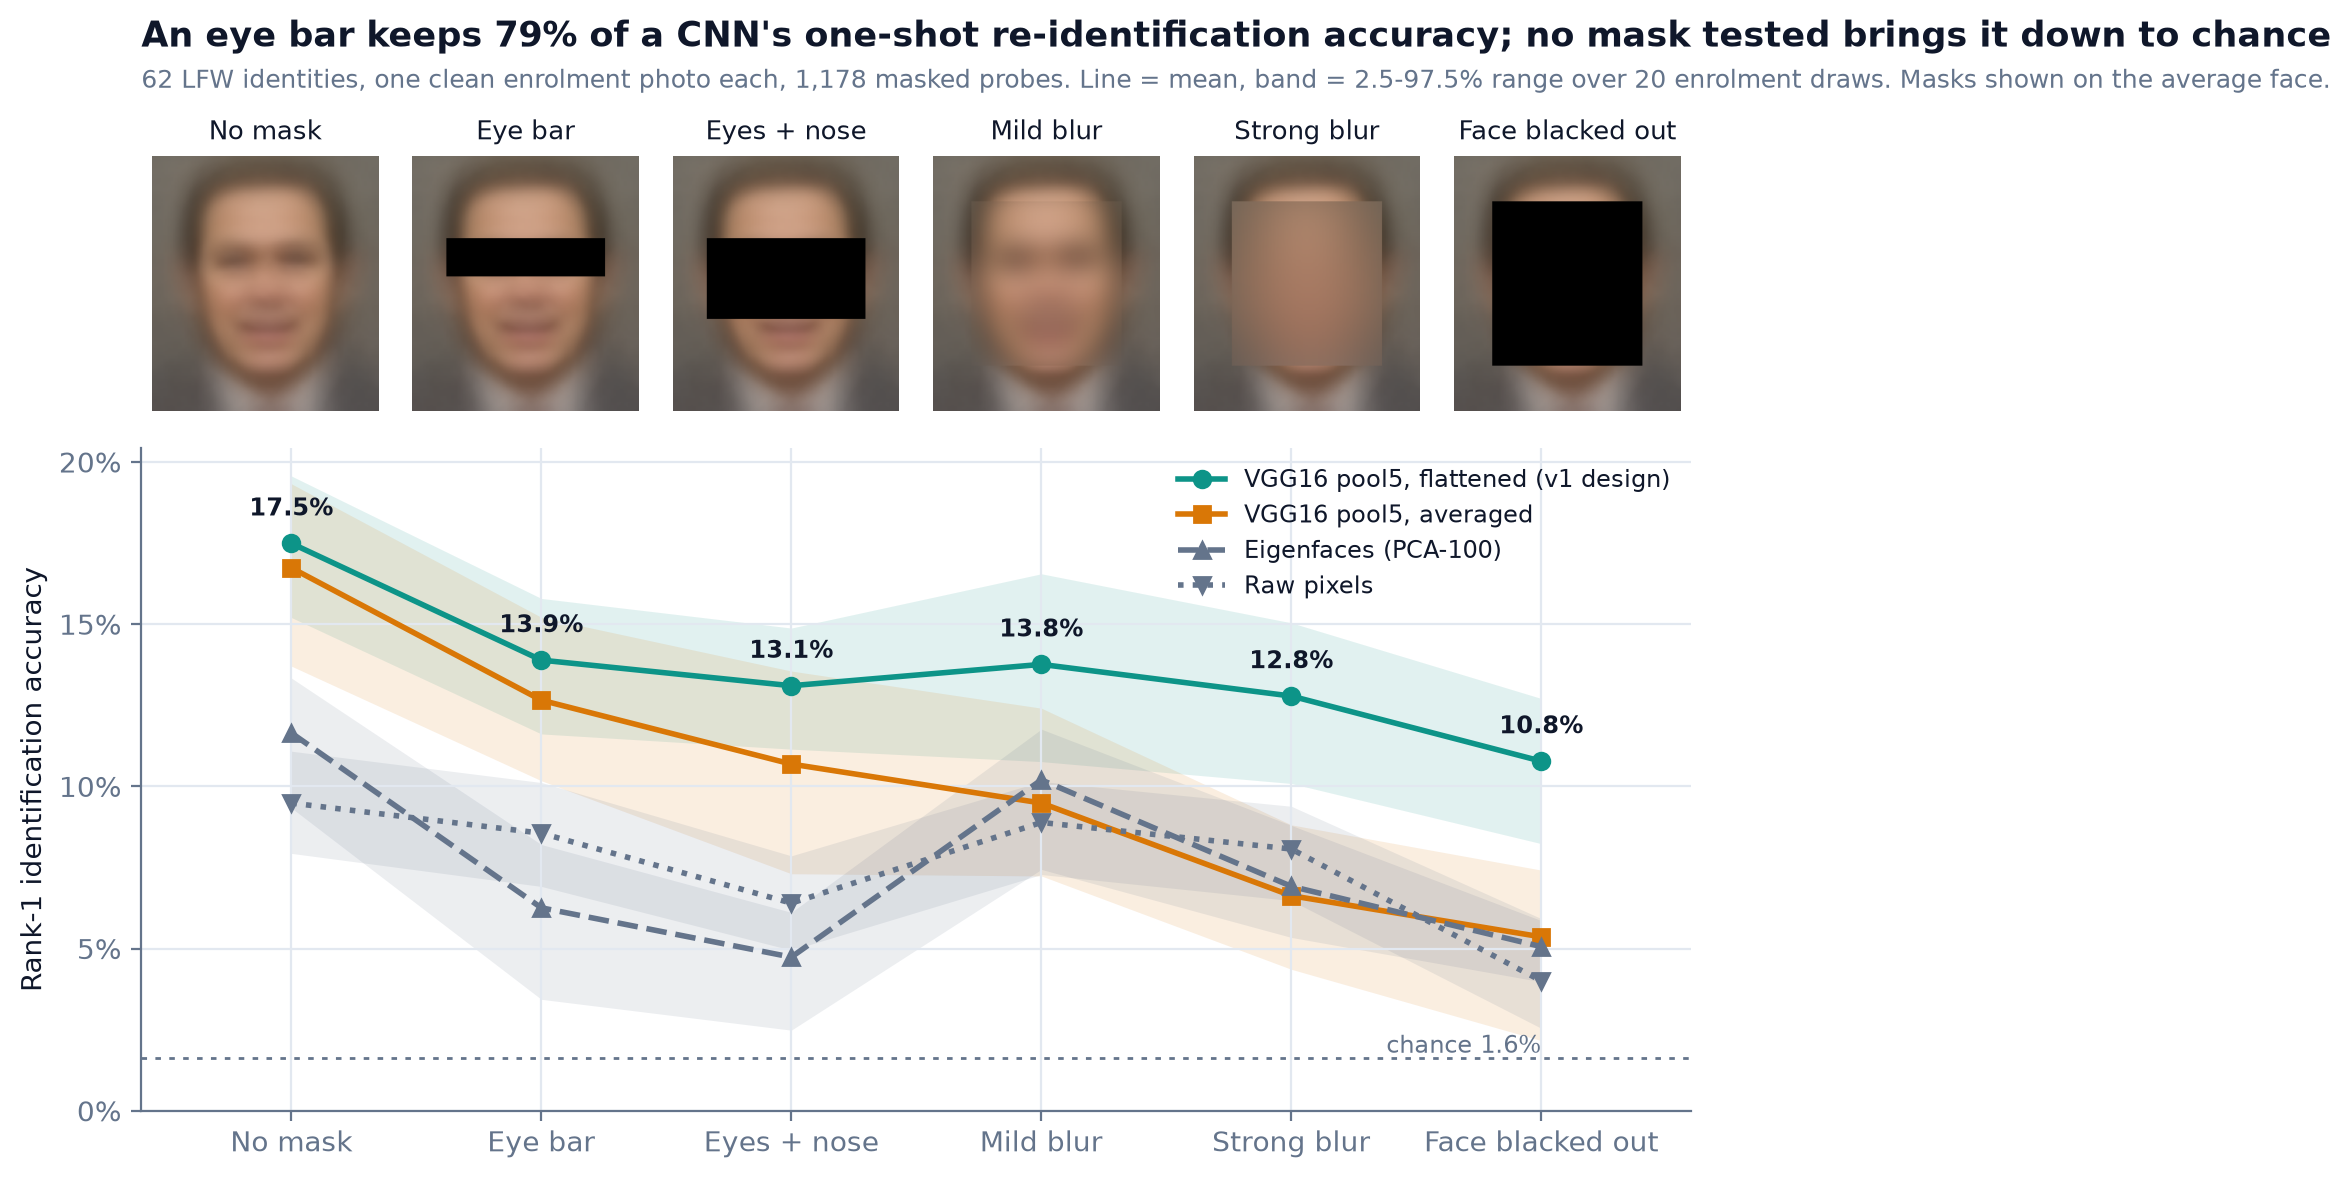
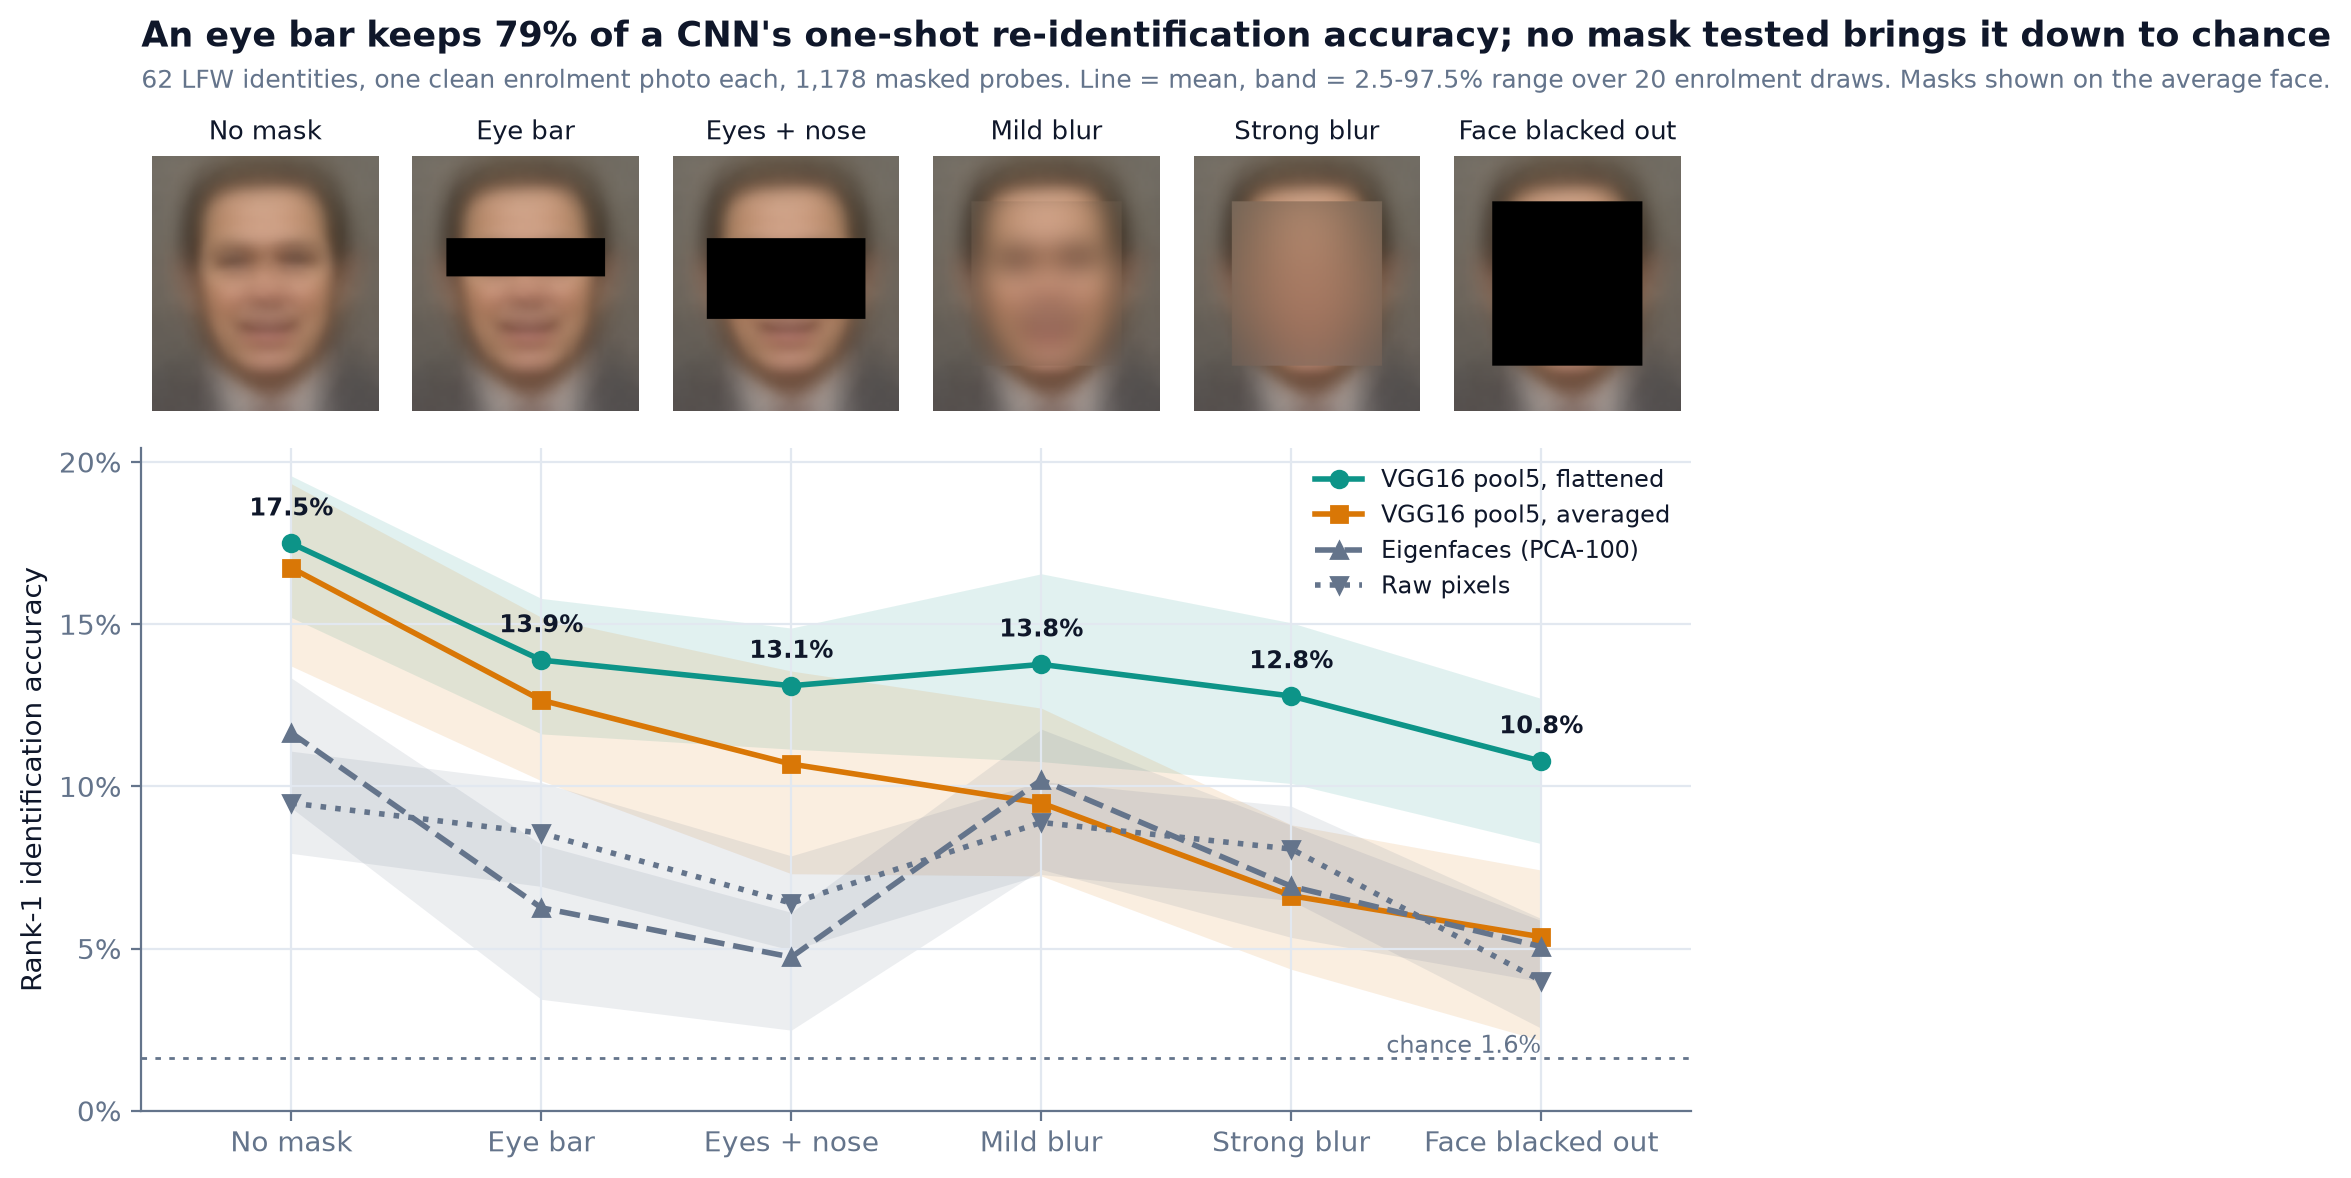
figures: filter correlation to two significant figures, plain matcher labels
Print block5 |r| as 0.007 rather than 0.01, describe the metric as pixel
similarity of the visualisations, and drop the '(v1 design)' tag from the
legends. grad_cam raises TypeError for a model without a Dense head.

Changed region(s): [[0.4968, 0.3973, 0.7142, 0.5195]]

diff --git a/src/cnn_explainability/explain.py b/src/cnn_explainability/explain.py
@@ -74,7 +74,7 @@ def histogram_entropy(image: np.ndarray, bins: int = 50) -> float:
 
 
 def mean_abs_correlation(images: np.ndarray) -> float:
-    """Mean |Pearson r| between all pairs of images: high means redundant visualisations."""
+    """Mean |Pearson r| between all pairs of images, pixel by pixel: high means similar images."""
     corr = np.corrcoef(images.reshape(len(images), -1))
     off_diagonal = ~np.eye(len(images), dtype=bool)
     return float(np.abs(corr[off_diagonal]).mean())
@@ -90,7 +90,7 @@ def grad_cam(model: keras.Model, inputs: np.ndarray, layer: str, class_index: in
     """
     head = model.layers[-1]
     if not isinstance(head, keras.layers.Dense):
-        raise ValueError(f"grad_cam needs a model ending in a Dense layer, got {head.name!r}")
+        raise TypeError(f"grad_cam needs a model ending in a Dense layer, got {head.name!r}")
     grad_model = keras.Model(model.input, [model.get_layer(layer).output, head.input])
     x = tf.convert_to_tensor(inputs)
     with tf.GradientTape() as tape:

diff --git a/src/cnn_explainability/figures.py b/src/cnn_explainability/figures.py
@@ -18,7 +18,7 @@ from cnn_explainability.config import AMBER, FIGURES, GRID, INK, RESULTS, SLATE,
 
 REPRESENTATIONS = {
     # key: (label, colour, linestyle, marker)
-    "vgg16_flat": ("VGG16 pool5, flattened (v1 design)", TEAL, "-", "o"),
+    "vgg16_flat": ("VGG16 pool5, flattened", TEAL, "-", "o"),
     "vgg16_gap": ("VGG16 pool5, averaged", AMBER, "-", "s"),
     "eigenfaces": ("Eigenfaces (PCA-100)", SLATE, "--", "^"),
     "pixels": ("Raw pixels", SLATE, ":", "v"),
@@ -280,7 +280,7 @@ def filters(maps: np.lib.npyio.NpzFile, stats: dict) -> None:
                 spine.set_visible(False)
         corr = stats[layer]["mean_abs_correlation"]
         axes[row, 0].set_ylabel(
-            f"{layer}\n|r| = {corr:.2f}",
+            f"{layer}\n|r| = {corr:.2g}",
             fontsize=8,
             rotation=0,
             ha="right",
